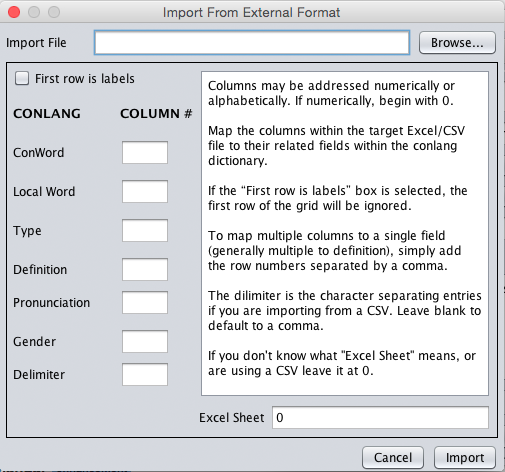
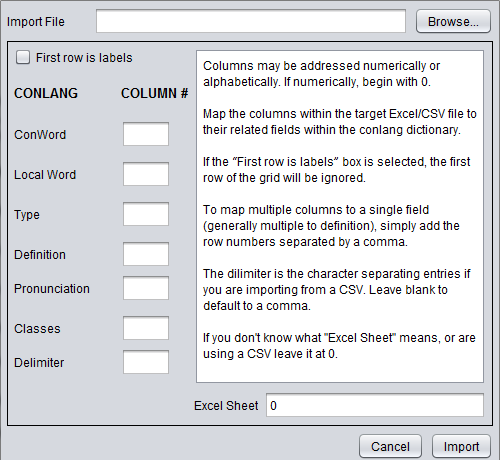
Added documentation to Readme about Quizzing engine.

diff --git a/docs/readme.html b/docs/readme.html
@@ -79,11 +79,12 @@
                             <a href="#LOGOGRAPHIC_DICTIONARY">6---- Logographic Dictionary</a><br>
                             <a href="#PRINT_PDF">7---- Publishing to PDF</a><br>
                             <a href="#IPA_WINDOW">8---- Interactive IPA Window</a><br>
-                            <a href="#LODENKUR_-_an_example_language">9---- Grammar Guide</a><br>
-                            <a href="#NEW_FEATURES">10---- New Features</a><br>
-                            <a href="#UPCOMING_FEATURES">11---- Upcoming Features</a><br>
-                            <a href="#KNOWN_BUGS">12---- Known Bugs</a><a href="#ADDITIONAL_RESOURCES"><br>
-                                13---- Additional Resources</a><br>
+                            <a href="#QUIZ">9---- Quiz Generation Tool</a><br>
+                            <a href="#LODENKUR_-_an_example_language">10---- Grammar Guide</a><br>
+                            <a href="#NEW_FEATURES">11---- New Features</a><br>
+                            <a href="#UPCOMING_FEATURES">12---- Upcoming Features</a><br>
+                            <a href="#KNOWN_BUGS">13---- Known Bugs</a><a href="#ADDITIONAL_RESOURCES"><br>
+                                14---- Additional Resources</a><br>
                             <a href="#COPYRIGHT_AND_CONTACT_INFO">14---- Copyright and contact info</a><br>
                         </div>
 
@@ -872,7 +873,7 @@
                         <br>
                         - Import File<br>
                         <br>
-                        &nbsp;&nbsp;&nbsp; This is the Excel/CSV file that you are importing
+                        This is the Excel/CSV file that you are importing
                         data
                         from. Simply click the browse button and select your excel spreadsheet
                         file here.<br>
@@ -882,14 +883,14 @@
                         - First Row Is Labels<br>
 
                         <br>
-                        &nbsp;&nbsp;&nbsp; If the first row in your dictionary file is used for
+                        If the first row in your dictionary file is used for
                         labels, click this. This will tell PolyGlot to skip the first row
                         before beginning the import.<br>
                         <br>
                         <br>
                         - Column Mapping<br>
                         <br>
-                        &amp;nnbsp;&nbsp;&nbsp; This is the meat and potatoes of the import
+                        This is the meat and potatoes of the import
                         tool.
                         Here, you map columns from your excel sheet to fields in PloyGlot. The
                         column number (rather than the column title) should be used for
@@ -897,6 +898,11 @@
                         If you have more columns than are provided for in PolyGlot, multiple
                         columns can be imported to a single PolyGlot field. Simply enter the
                         column numbers separated by commas.<br>
+                        <br>It's worth noting that for imported word classes (gender, and other 
+                        inherent attributes) will be labeled as CLASS1, CLASS2, CLASS3, etc.
+                        These can be easily renamed to their appropriate values post import
+                        from the main menu by clicking the Lexical Classes button.
+                        <br>
                         <br>
                         - Delimiter<br>
                         &nbsp;&nbsp;&nbsp; The delimiter character is the character used to
@@ -1266,6 +1272,48 @@
                             <br>
                             </p>
 
+                            <p>
+                                
+                            </p>
+                                <a name="QUIZ"></a><h1> Quiz Generation Tool</h1>
+                            <br>
+                            The Quiz Generation Tool allows you to create flash-card style quizzes
+                            based on the contents of your lexicon. It is a very useful tool for
+                            increasing your own fluency and familiarity with your languages, or languages
+                            that you've downloaded.<br>
+                            
+                            <img alt="" src="assets/Quiz1.png"><br>
+                            To access the quiz generation tool, on the main menu, click Tools->Quiz Generator.<br><br>
+                            
+                            <img alt="" src="assets/Quiz2.png"><br>
+                            Once you are in the Quiz Generation screen, you will see a number of options.
+                             At the top is a filter, which functions identically to the one found on the 
+                             lexicon screen. Using this filter, you can restrict what kinds of words are 
+                             randomly selected to be put into the quiz. Below this are the controls for the
+                             quiz itself. The quiz length is how many questions will be included in the
+                             quiz. Below this is a series of check boxes, each representing one of
+                             the attributes on a word. Questions generated will quiz based on only the
+                             selected attributes. At least one must be selected to generate a quiz.
+                             Once the parameters are complete, click the Take Quiz button to begin.<br><br>
+                             
+                             <img alt="" src="assets/Quiz3.png"><br>
+                             Once the quiz has been begun, you can move forward and backward through the 
+                             questions using the Next and Previous buttons. Skipped questions can be 
+                             returned to and answered later. The current question by number is displayed
+                             in the bottom left.<br><br>
+                             
+                             <img alt="" src="assets/Quiz4.png"><br>
+                             Once a question is answered, it cannot be reanswered. It will be marked as
+                             correct/incorrect at the bottom of the screen, and the correct answer will
+                             always be marked in green (incorrect answers marked in red). After you reach 
+                             the end of the quiz, the Next button will become a Finish button. You will 
+                             be given the option to retake the test, and if you choose to, be given the 
+                             further option to trim the test down to only the questions you missed the 
+                             first time around. This can be very helpful to reinforce the areas that you 
+                             are currently having trouble with.<br><br>
+                             
+                                                          
+                            
                             <p>
                                 <a name="LODENKUR_-_an_example_language"></a><h1> Grammar Guide</h1>
                             <br>
